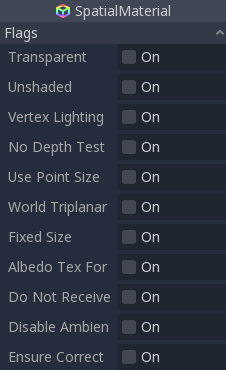
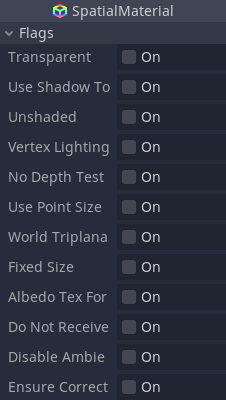
Update spatial material page for Godot 3.2

diff --git a/tutorials/3d/spatial_material.rst b/tutorials/3d/spatial_material.rst
@@ -40,6 +40,12 @@ specified otherwise. The main settings that enable transparency are:
 * Blend mode set to other than "Mix"
 * Enabling distance or proximity fade
 
+Use Shadow to Opacity
+~~~~~~~~~~~~~~~~~~~~~
+
+Lighting modifies the alpha so shadowed areas are opaque and non-shadowed
+areas are transparent. Useful for overlaying shadows onto a camera feed in AR.
+
 Unshaded
 ~~~~~~~~
 
